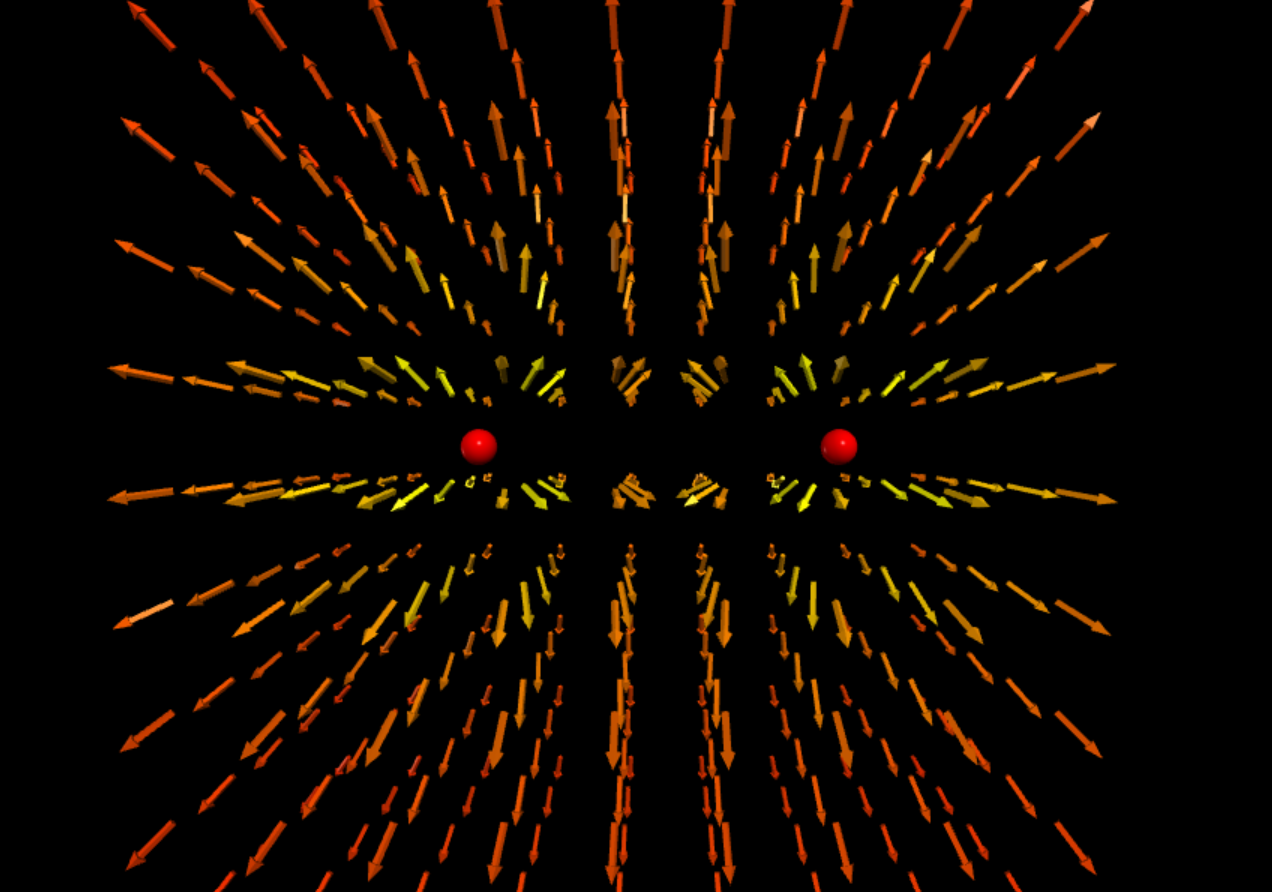
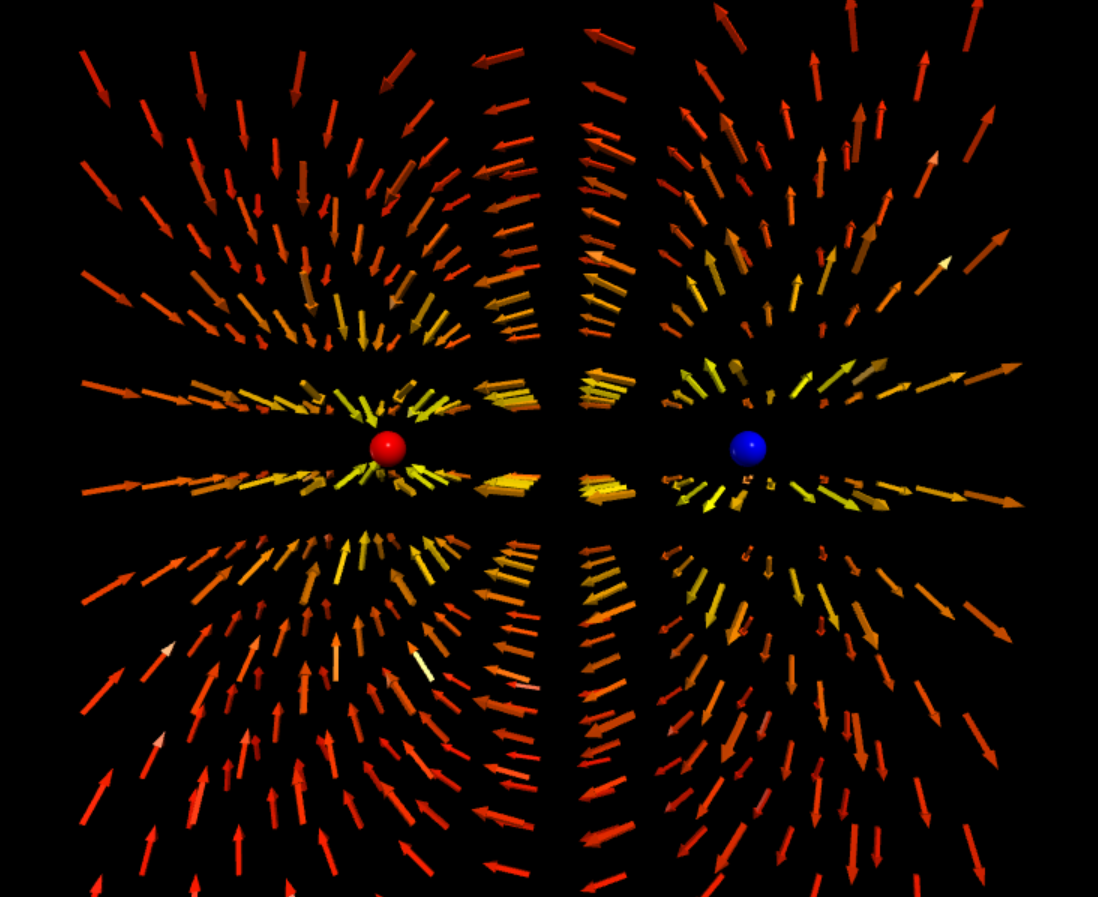
Bug fixes

diff --git a/src/trinket/dipole.py b/src/trinket/dipole.py
@@ -43,15 +43,9 @@ class Field:
       return field
 
 class Charge:
-    def __init__(self, mass=1.6E-27, position=vec(0, 0, 0), velocity=vec(0, 0, 0), radius=1.0, coulomb=ec, color=color.red, make_trail=False):
-        colour = color 
-        if colour is None:
-          if coulomb > 0:
-            colour = color.blue 
-          else: 
-            colour = color.red
-          
-        self._charge = sphere(mass=mass, pos=position, v=velocity, radius=radius, coulomb=coulomb, color=color, make_trail=make_trail)
+    def __init__(self, mass=1.6E-27, position=vec(0, 0, 0), velocity=vec(0, 0, 0), radius=1.0, coulomb=ec, colour=color.red, make_trail=False):
+
+        self._charge = sphere(mass=mass, pos=position, v=velocity, radius=radius, coulomb=coulomb, color=colour, make_trail=make_trail)
         self._field_arrows = []
 
     def field_at(self, position):
@@ -65,15 +59,14 @@ class Dipole:
     def __init__(self, radius=1.2E-14):
          position = vec(10 * radius, 0, 0)
          self._charges = []
-         self._charges += [Charge(position=position, radius=radius, coulomb=ec)]
-         self._charges += [Charge(position=-position, radius=radius, coulomb=ec)]
+         self._charges += [Charge(position=position, radius=radius, coulomb=ec, colour=color.blue)]
+         self._charges += [Charge(position=-position, radius=radius, coulomb=-ec)]
 
     def field(self):
         return Field(charges=self._charges)
 
-scene = canvas(width=1000, height=600, align='left', range=3E-13)
+scene = canvas(width=1000, height=600, align='top', range=3E-13)
+
 dipole = Dipole()
 dipole.field().show(x_range=range(-22, 22, 5), y_range=range(-22, 22, 5), z_range=range(-12, 12, 5))
 
-# while True:
-#    pass

diff --git a/src/trinket/point_charge.py b/src/trinket/point_charge.py
@@ -1,4 +1,5 @@
 from vpython import arrow, vec, hat, sphere, color, sin, cos, pi, canvas, exp, mag
+from mathjax import MathJax
 
 ec = 1.6E-19            # electron charge
 k = 9E9                 # Coulomb constant
@@ -45,6 +46,9 @@ class Charge:
     def field_at(self, position):
         return hat(position - self._charge.pos) * k * self._charge.coulomb / mag(position - self._charge.pos)**2
         
-scene = canvas(width=1000, height=600, align='left', range=3E-13)
+scene = canvas(width=1000, height=600, align='top', range=3E-13)
+scene.caption = "Electric field \\( \\vec{E} ( \\vec{r} ) = \\dfrac {1} {4\\pi\\epsilon_0} \\dfrac {Q} {r^2} \\hat{r} \\), Electric force \\( \\vec{F}(\\vec{r}) = q \\vec{E} ( \\vec{r} ) =  \\dfrac {1} {4\\pi\\epsilon_0} \\dfrac {qQ} {r^2} \\hat{r} \\)"
+MathJax.Hub.Queue(["Typeset", MathJax.Hub])
+
 charge = Charge(position=vec(0, 0, 0), radius=1.2E-14, coulomb=1 * ec)
 charge.show_field()

diff --git a/src/demos/dipole.py b/src/demos/dipole.py
@@ -10,7 +10,7 @@ class Dipole:
     def __init__(self, radius=1.2E-14):
         position = vec(10 * radius, 0, 0)
         self._charges = [Charge(position=position, radius=radius, coulomb=ec),
-                         Charge(position=-position, radius=radius, coulomb=ec)]
+                         Charge(position=-position, radius=radius, coulomb=-ec)]
 
     @property
     def field(self):
